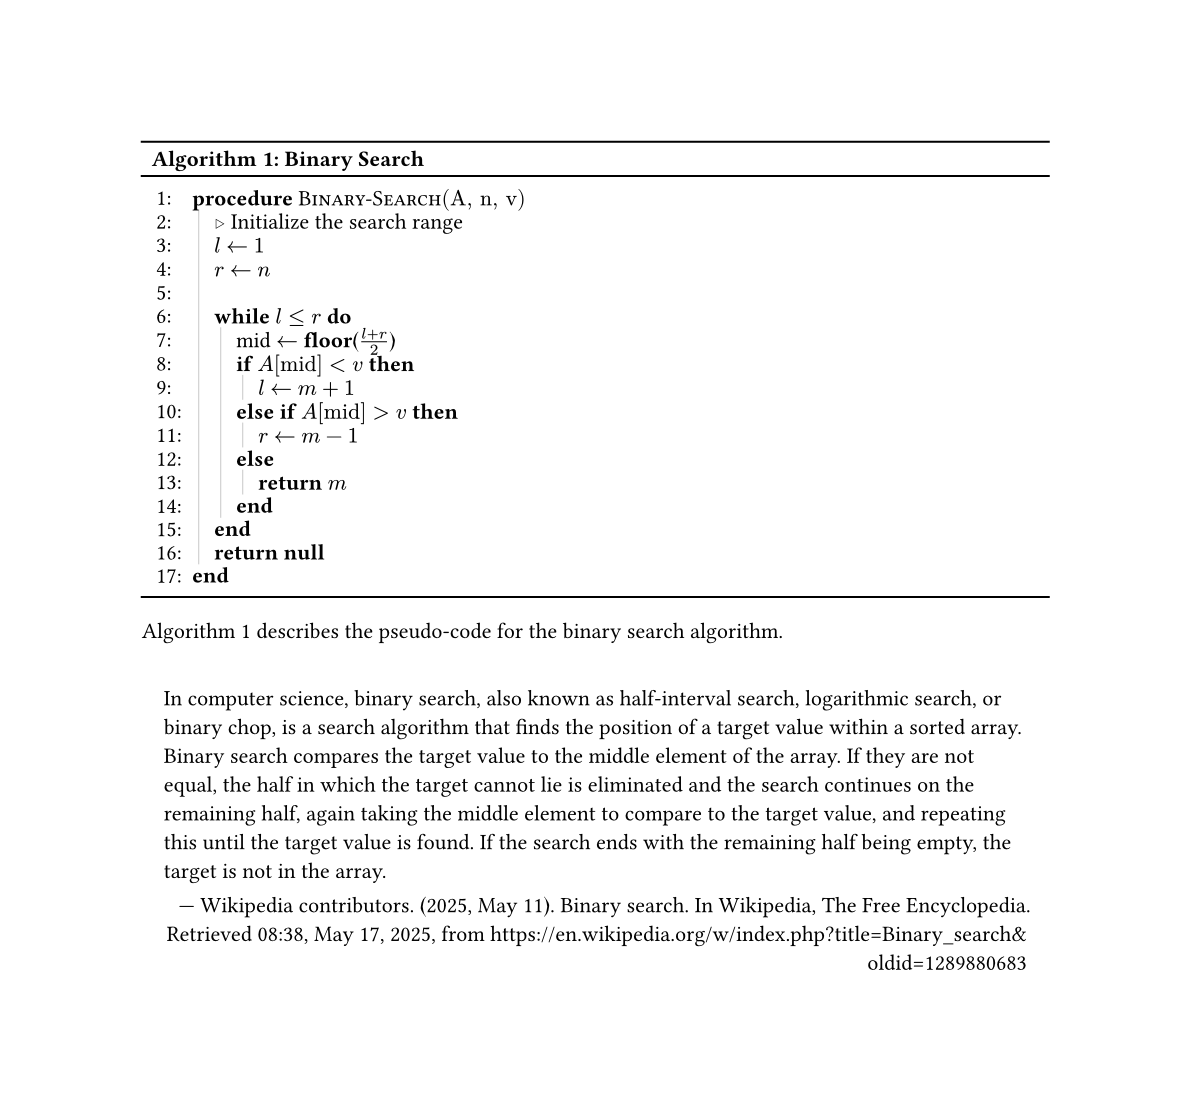
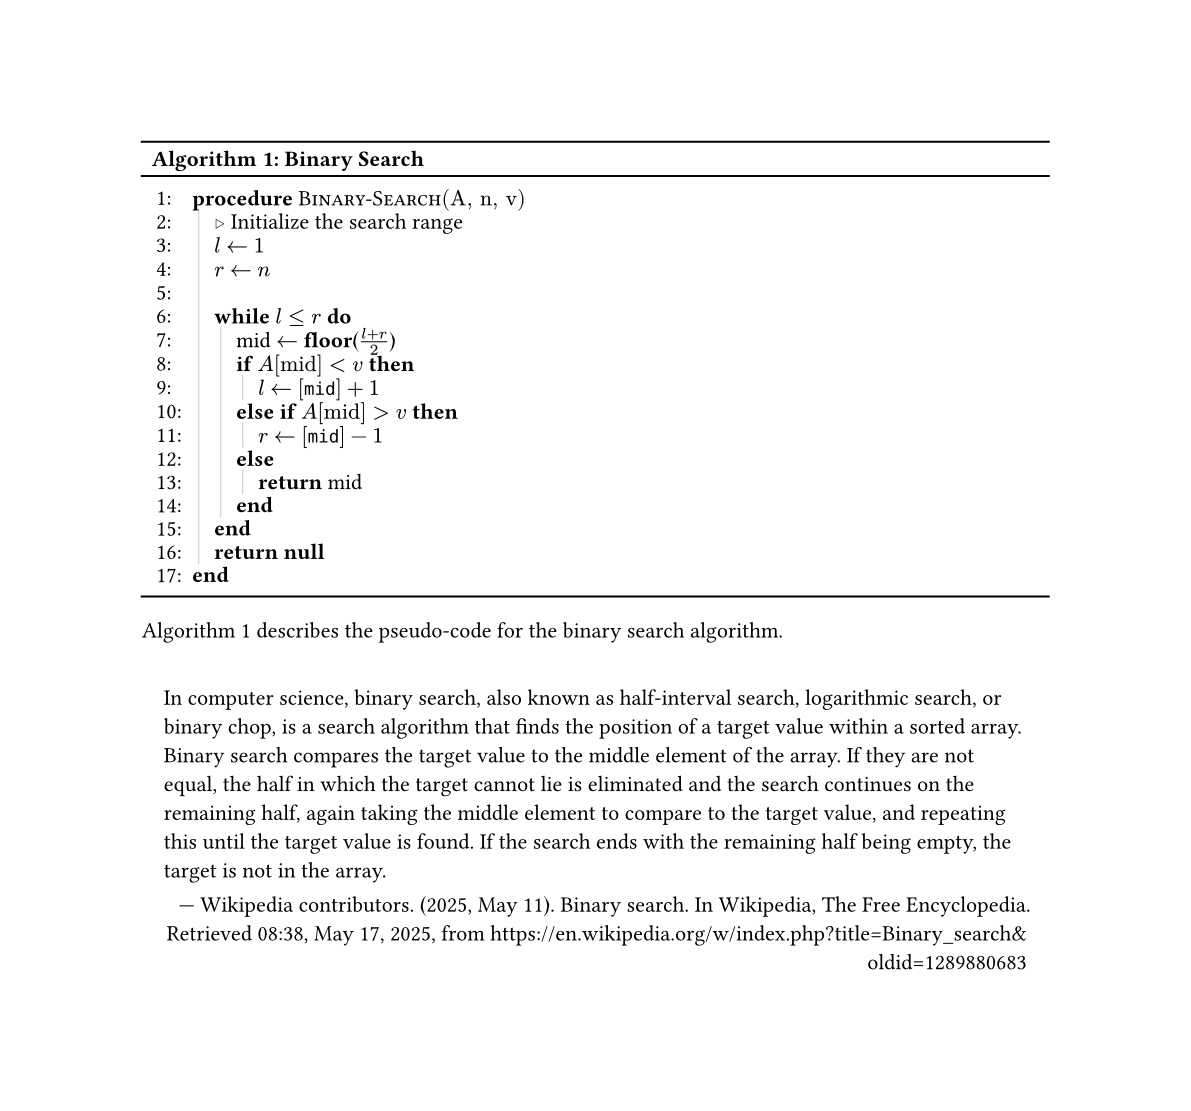
Demo algorithm had a mix of 'mid' and 'm' variables.

diff --git a/README.md b/README.md
@@ -42,13 +42,13 @@ Example:
             IfElseChain(
               $A ["mid"] < v$,
               {
-                Assign[$l$][$m + 1$]
+                Assign[$l$][$[mid] + 1$]
               },
               [$A ["mid"] > v$],
               {
-                Assign[$r$][$m - 1$]
+                Assign[$r$][$[mid] - 1$]
               },
-              Return[$m$],
+              Return[mid],
             )
           },
         )
